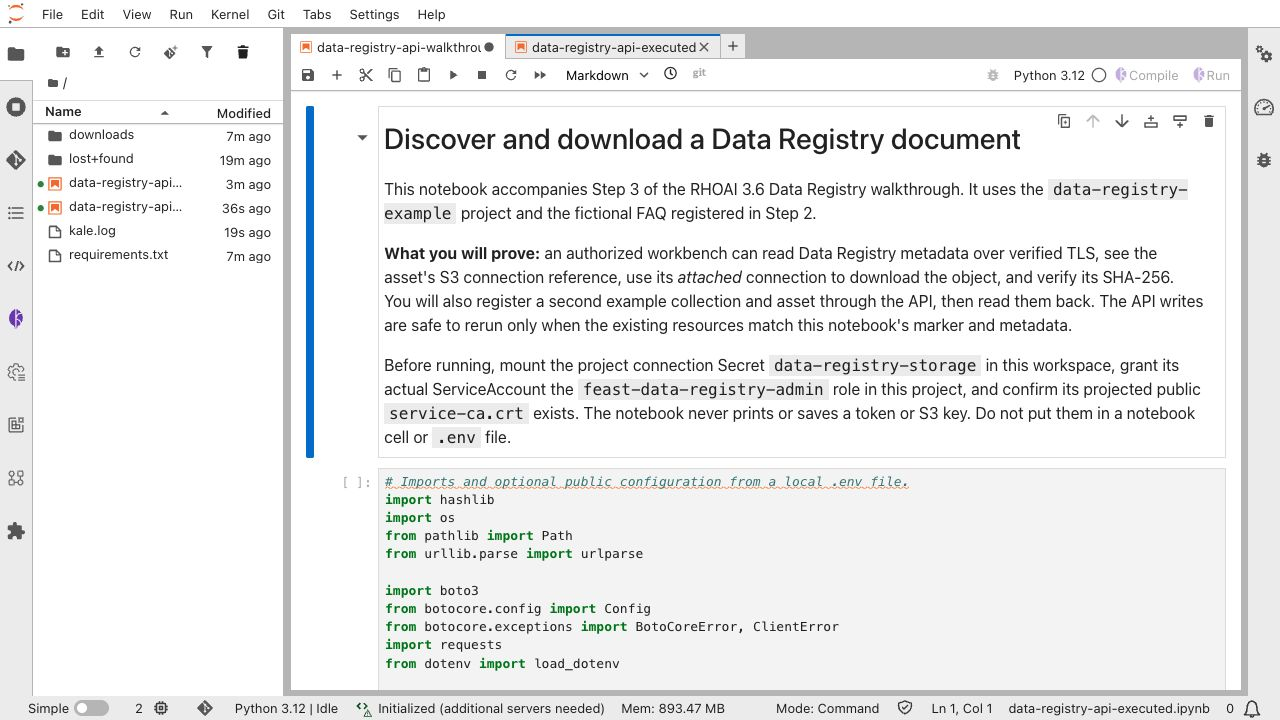
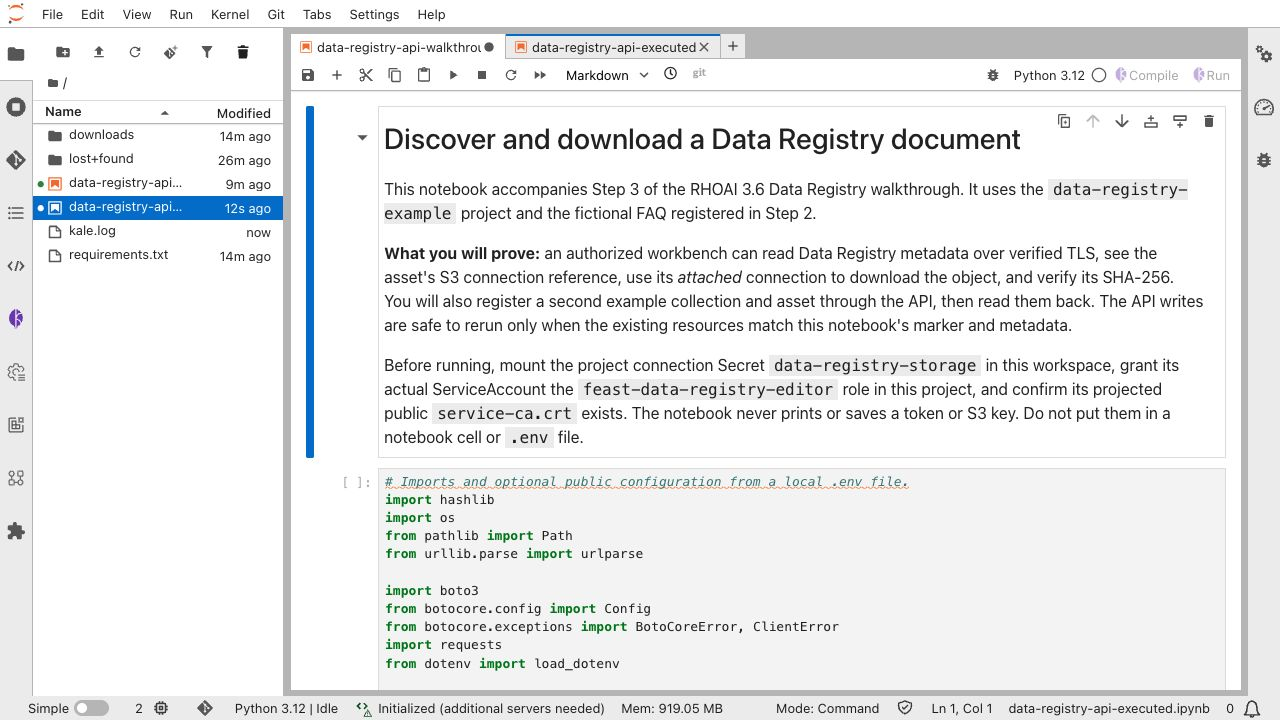
Use verified editor scope for registry API notebook

diff --git a/examples/data-registry/03-use-registry-api/README.md b/examples/data-registry/03-use-registry-api/README.md
@@ -139,17 +139,25 @@ this RHOAI 3.6 cluster the operator supplies these registry roles:
 | Role | Registry permissions | Can complete this notebook? |
 | --- | --- | --- |
 | `feast-data-registry-viewer` | Read catalog resources | No; the notebook creates a collection and asset. |
-| `feast-data-registry-editor` | Read and write catalog resources | No; it lacks `connections use`, which the API checks when an asset refers to the S3 connection. |
-| `feast-data-registry-admin` | Read and write catalog resources, plus `connections use` | Yes. |
+| `feast-data-registry-editor` | Read and write catalog resources | Yes, on the installation tested for this guide. |
+| `feast-data-registry-admin` | Editor permissions plus `connections use` | Yes, but broader than this notebook needs here. |
 
-Here, “admin” means **Data Registry permissions in this project**. The
-RoleBinding below does not grant Kubernetes project administration, access to
-other namespaces, or permission to read the Secret through the Kubernetes
-API. The Secret is mounted separately in the workspace. The installed admin
-role does include create, update, patch, and delete on registry catalog
-resources, so grant it only to this example workspace ServiceAccount and
-review whether a narrower custom role is appropriate in your own environment.
-The notebook uses only reads and two creates.
+The workbench initially received HTTP 403 because its ServiceAccount had no
+Data Registry grant in `data-registry-example`. On this installation the
+registry proxy maps these endpoints to project-scoped registry permissions.
+The installed volume route stores `connection_ref` as metadata; it does not
+check `connections use`. The notebook needs catalog reads and two creates,
+which the operator-provided **editor** role supplies. The S3 read is authorized
+separately by the mounted connection's credentials. A later RHOAI version may
+enforce connection use differently, so check its current authorization
+contract if this request returns 403 after the editor grant.
+
+The namespaced RoleBinding below does not grant Kubernetes project
+administration, access to other namespaces, or permission to read the Secret
+through the Kubernetes API. The Secret is mounted separately in the workspace.
+The editor role also includes update, patch, and delete on registry catalog
+resources, so grant it only to this example workspace ServiceAccount. A
+custom Role can be narrower where your platform supports it.
 
 A project administrator should identify the ServiceAccount of the **new**
 workspace pod and bind the operator-provided role in `data-registry-example`:
@@ -161,9 +169,9 @@ WORKSPACE_SA="$(oc get pod -n data-registry-example \
 test -n "$WORKSPACE_SA"
 echo "Workspace ServiceAccount: $WORKSPACE_SA"
 
-oc create rolebinding data-registry-api-admin \
+oc create rolebinding data-registry-api-editor \
   --namespace=data-registry-example \
-  --clusterrole=feast-data-registry-admin \
+  --clusterrole=feast-data-registry-editor \
   --serviceaccount="data-registry-example:$WORKSPACE_SA" \
   --dry-run=client -o yaml | oc apply -f -
 
@@ -171,9 +179,10 @@ oc auth can-i --list -n data-registry-example \
   --as="system:serviceaccount:data-registry-example:$WORKSPACE_SA"
 ```
 
-In the permission list, confirm that `volumes.dataregistry.opendatahub.io`
-includes `create` and `connections.dataregistry.opendatahub.io` includes
-`use`. For this workspace, the ServiceAccount is `ws-data-registry-api`. This
+In the permission list, confirm that `registries`, `namespaces`, and
+`volumes` in the `dataregistry.opendatahub.io` API group include `get`,
+`list`, and `create`. For this workspace, the ServiceAccount is
+`ws-data-registry-api`. This
 is a **namespaced RoleBinding** to an operator-provided ClusterRole; it does
 not modify that ClusterRole. Use the ServiceAccount reported by your pod.
 See [Step 4](../04-share-registry-access/README.md) for the existing user and
@@ -271,7 +280,7 @@ displayed.
 | No Workspaces page or create action | Ask the administrator to check both Workbenches management states, component readiness, and the dashboard's `workbenchesV2` setting. |
 | Missing `AWS_*` setting | Mount `data-registry-storage` at `/var/run/secrets/data-registry-storage` and restart the workspace; do not add credentials to the notebook. |
 | Registry request returns 401 | The projected ServiceAccount token is missing, expired, or not sent to the API. Restart the workbench and rerun the preflight. |
-| Registry request returns 403 | Check the workbench pod's actual ServiceAccount and its namespaced admin RoleBinding. |
+| Registry request returns 403 | Check the workspace pod's actual ServiceAccount and its namespaced editor RoleBinding; check your installed version's authorization mapping. |
 | TLS certificate error | Check the projected `service-ca.crt`, the service hostname, and the cluster's CA rotation. Do not disable verification. |
 | Connection or path differs | Open the asset detail page and correct the metadata in Step 2. The notebook deliberately rejects a different resource. |
 | S3 request returns 403 | Check connection attachment, the bucket policy, and that the connection uses the S3 API endpoint rather than the SeaweedFS Admin port. |

diff --git a/examples/data-registry/04-share-registry-access/README.md b/examples/data-registry/04-share-registry-access/README.md
@@ -14,7 +14,7 @@ When a user or group needs access to registry metadata but must not receive broa
 | --- | --- |
 | `feast-data-registry-viewer` | List, view, and watch registry resources. |
 | `feast-data-registry-editor` | Create, update, and delete registry resources. |
-| `feast-data-registry-admin` | Editor access plus use of referenced RHOAI connections. |
+| `feast-data-registry-admin` | Editor access plus the `connections use` permission. |
 
 These ClusterRoles are installed and maintained by the operator. Do not edit them or create a duplicate namespaced Role. A namespaced RoleBinding limits the ClusterRole grant to Data Registry resources in the selected project.
 
